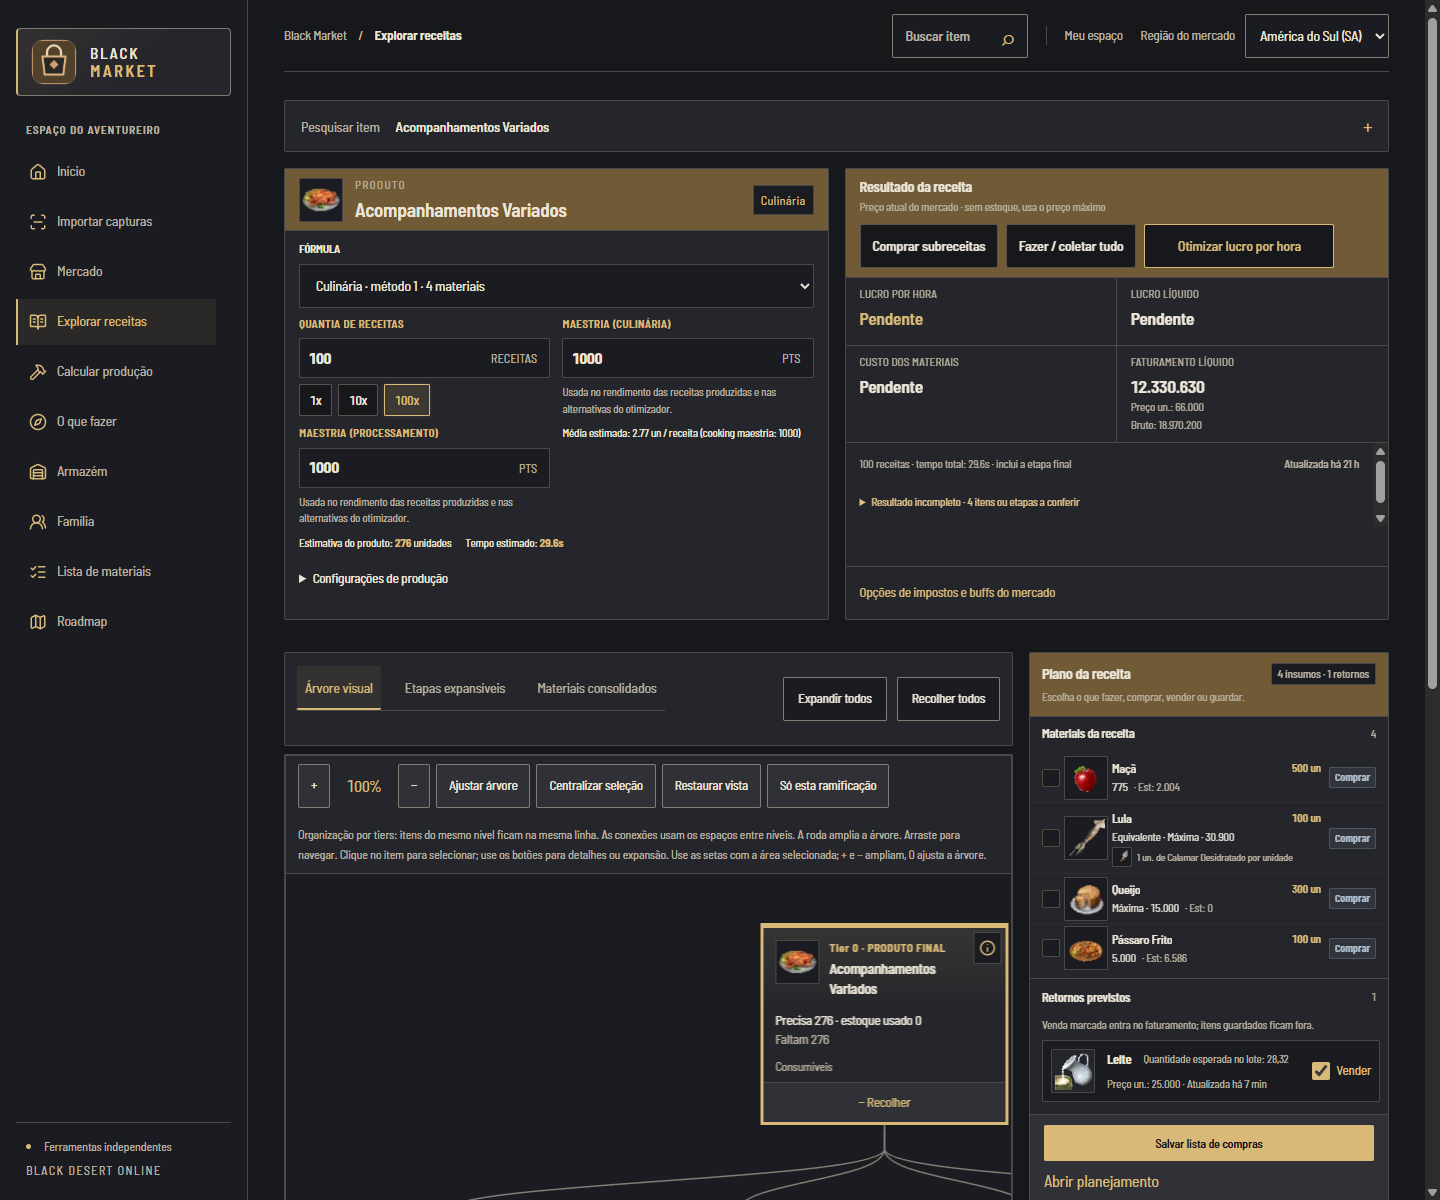
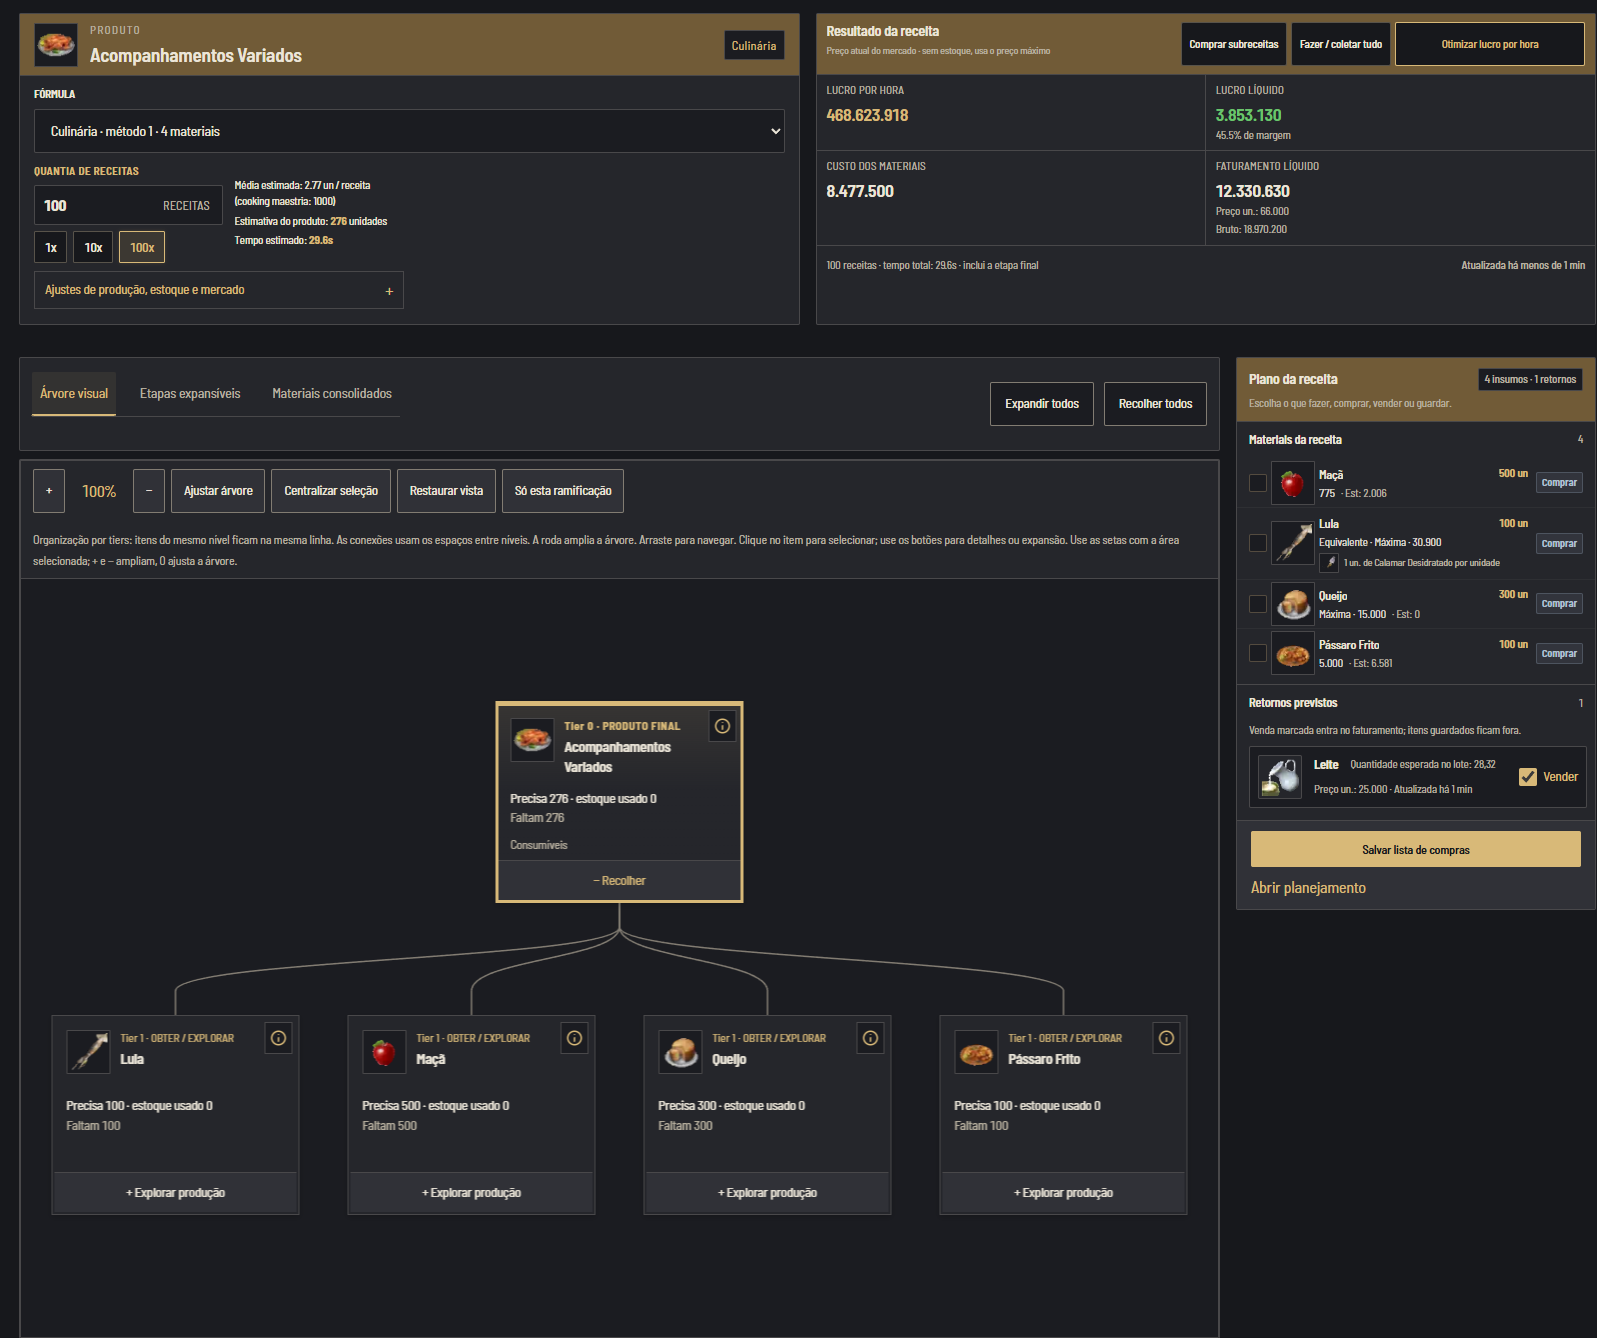
feat(portfolio): spotlight Black Market recipe analysis

diff --git a/src/content/portfolio.js b/src/content/portfolio.js
@@ -139,8 +139,8 @@ export const portfolioContent = {
       ],
       image: {
         src: "/black-market-recipe.png",
-        width: 1440,
-        height: 1200,
+        width: 1597,
+        height: 1338,
       },
       links: [],
       pt: {
@@ -151,8 +151,8 @@ export const portfolioContent = {
         details:
           "O MVP explora importação de até oito capturas por vez, revisão manual dos itens e busca de receitas recursivas, fontes e materiais faltantes. É um produto privado, sem lançamento público.",
         imageAlt:
-          "Captura da tela real de receitas do Black Market com árvore de produção, cálculo de preços e materiais necessários.",
-        imageCaption: "Receita · árvore de produção e cálculo de mercado",
+          "Captura da tela real do Black Market com lucro por hora, custo dos materiais, faturamento da receita e árvore de produção com quatro insumos.",
+        imageCaption: "Receita · margem, custo dos materiais e árvore de produção",
         privateNote: "Código e interface não são públicos neste momento.",
       },
       en: {
@@ -163,8 +163,8 @@ export const portfolioContent = {
         details:
           "The MVP explores imports of up to eight screenshots at a time, with manual item review, recursive recipe search, sources and missing materials. It is a private product with no public launch yet.",
         imageAlt:
-          "Real Black Market recipe screen with its production tree, price calculations and required materials.",
-        imageCaption: "Recipe · production tree and market calculation",
+          "Real Black Market screen showing hourly profit, material costs, recipe revenue and a production tree with four ingredients.",
+        imageCaption: "Recipe · margin, material costs and production tree",
         privateNote: "The code and interface are private at this stage.",
       },
     },

diff --git a/test/product-showcase.test.js b/test/product-showcase.test.js
@@ -1,6 +1,6 @@
 import { test } from "node:test";
 import assert from "node:assert/strict";
-import { stat } from "node:fs/promises";
+import { readFile, stat } from "node:fs/promises";
 import { portfolioContent } from "../src/content/portfolio.js";
 import { renderPortfolioSections } from "../src/content/render-portfolio.js";
 
@@ -32,7 +32,11 @@ test("shows a dashboard preview and a real local recipe screenshot", async () =>
       assert.ok(product.image.height > 0, "missing image height for " + product.name);
       for (const section of [field.products, index.products])
         assert.ok(section.includes(product.image.src));
-      await stat(new URL("public" + product.image.src, siteRoot));
+      const imagePath = new URL("public" + product.image.src, siteRoot);
+      await stat(imagePath);
+      const image = await readFile(imagePath);
+      assert.equal(image.readUInt32BE(16), product.image.width);
+      assert.equal(image.readUInt32BE(20), product.image.height);
     }
   }
   const blackMarket = portfolioContent.products.find(

diff --git a/docs/superpowers/plans/2026-10-14-portfolio-project-previews.md b/docs/superpowers/plans/2026-10-14-portfolio-project-previews.md
@@ -40,12 +40,12 @@ Expected: the Comandinha preview presents useful operational information at a gl
 
 ## Task 2: Replace the Black Market preview image
 
-- [ ] Add an assertion that public/black-market-recipe.png pixel dimensions match portfolioContent.products metadata.
-- [ ] Run node --test test/product-showcase.test.js; confirm the dimension assertion fails for a mismatched artifact.
-- [ ] Capture the updated real recipe workspace with the application sidebar omitted and the result metrics plus production graph visible.
-- [ ] Replace public/black-market-recipe.png and update its actual dimensions, alt text and caption in src/content/portfolio.js.
-- [ ] Run node --test test/product-showcase.test.js and then npm test; both must pass.
-- [ ] Inspect the project section at desktop and narrow viewport widths; confirm the image remains in the grid and does not overflow.
-- [ ] Commit the Black Market image and its metadata/test updates together as one atomic portfolio change.
+- [x] Add an assertion that public/black-market-recipe.png pixel dimensions match portfolioContent.products metadata.
+- [x] Run node --test test/product-showcase.test.js; confirm the dimension assertion fails for a mismatched artifact.
+- [x] Capture the updated real recipe workspace with the application sidebar omitted and the result metrics plus production graph visible.
+- [x] Replace public/black-market-recipe.png and update its actual dimensions, alt text and caption in src/content/portfolio.js.
+- [x] Run node --test test/product-showcase.test.js and then npm test; both must pass.
+- [x] Inspect the project section at desktop and narrow viewport widths; confirm the image remains in the grid and does not overflow.
+- [x] Commit the Black Market image and its metadata/test updates together as one atomic portfolio change.
 
 Expected: the Black Market image clearly communicates recipe value and production structure instead of showing a tiny full-page screenshot.
